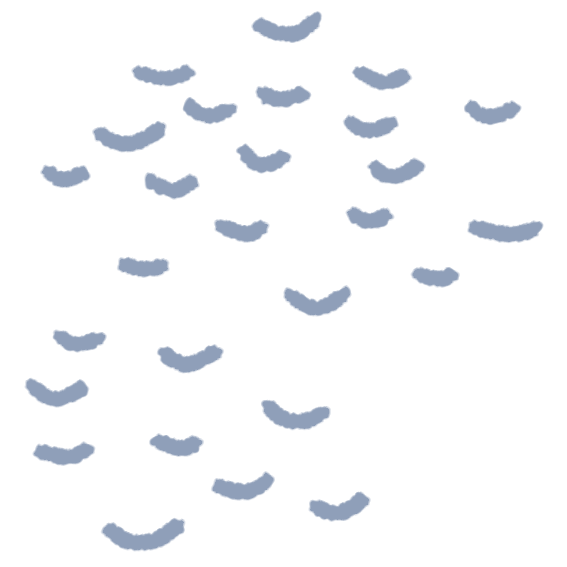
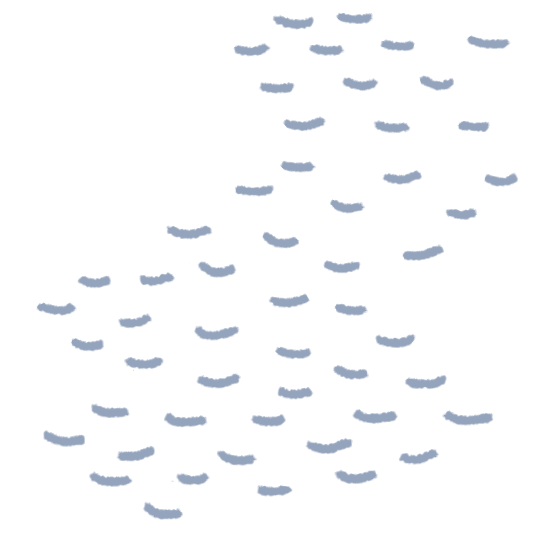
nami2修正

diff --git a/stylesheet.css b/stylesheet.css
@@ -72,6 +72,7 @@ a:link,a:visited,a:hover,a:active {
 
 .wrapper {
   width:100%;
+  overflow: hidden;
   max-width: 1200px;
   padding: 0 4%;
   margin: 0 auto;
@@ -107,7 +108,7 @@ a:link,a:visited,a:hover,a:active {
 .slide {
   position: relative;
   width: 100%;
-  height: 40vh;
+  height: 75vh;
   overflow: hidden;
 }
   
@@ -124,8 +125,7 @@ a:link,a:visited,a:hover,a:active {
   top: 50%;
   left: 50%;
   transform: translate(-50%, -50%);
-  width: 100%;
-  height: 40vh;
+  height: 100%;
   object-fit: cover;
   opacity: 0;
   animation: slideshow 32s infinite;
@@ -149,8 +149,8 @@ a:link,a:visited,a:hover,a:active {
   font-size: 3.5rem;
   font-weight: bold;
   line-height: 1.7;
-  top: 18vh;
-  left: calc(50vw - 240px);
+  top: 35vh;
+  left: calc(50vw - 230px);
   color: #f5f5f5;
   opacity: 80%;
   text-shadow: 0 0 1rem #28527a ;
@@ -188,7 +188,7 @@ a:link,a:visited,a:hover,a:active {
   top: 0;
   left: 0;
   object-fit: cover;
-  margin-top: calc(40vh - 3%); 
+  margin-top: calc(75vh - 3%); 
 }
 
 @media only screen and (max-width:800px) {
@@ -346,18 +346,22 @@ a:link,a:visited,a:hover,a:active {
 }
 
 .bubble1 {
-  width: 9%;
+  width: 25vw;
+  opacity: 30%;
+  padding-right: calc(50vw - 50%);
   position: absolute;
-  top: -20%;
-  left: 95%;
+  top: 100rem;
+  right: -6vw;
   z-index: -1;
 }
 
 .bubble2 {
-  width: 20%;
+  width: 30vw;
+  opacity: 30%;
+  padding-left: calc(50vw - 50%);
   position: absolute;
-  top: -50%;
-  left: -100%;
+  top: 150rem;
+  left: -6vw;
   z-index: -1;
 }
 
@@ -768,8 +772,8 @@ footer .mask2 {
 
   .la-water, .la-times{
     position: fixed;
-    top: 13px;
-    right: 13px;
+    top: 5vw;
+    right: 10vw;
     height: 45px;
     width:45px;
     display: inline-block;
@@ -870,11 +874,8 @@ footer .mask2 {
   }
 
   .bubble1 {
-    width: 20%;
-    position: absolute;
-    top: -9rem;
-    left: 85vw;
-    z-index: -1;
+    width: 37vw;
+    top: 150vw;
   }
 
   .bubble2 {
@@ -909,9 +910,9 @@ footer .mask2 {
     margin-bottom: 4rem; 
   }
 
-.pickup_main img {
-  margin-bottom: 4rem;
-}
+  .pickup_main img {
+    margin-bottom: 4rem;
+  }
 
   .pickup_dolphin_pic,.pickup_jellyfish_pic {
     width: 70vw;

diff --git a/index.html b/index.html
@@ -70,7 +70,6 @@
         </div>
         <!--ここまでメニュー-->
       </div>
-      <img class="copy" src="" alt=""></a>
     </div>
     <img class="mask" src="img/mask.png">
     <div class="nav wrapper">
@@ -92,7 +91,6 @@
       <div class="pickup_main fade-block" >
         <img src="img/main.png" alt="見どころ1">
         <img class="star1" src="img/star_1.png" alt="">
-        <img class="bubble1" src="img/nami1.png" alt="">
         <h3 class="title">全国でも珍しい<span> 昼 </span>と<span> 夜 </span>の<br class="ib">２部制の水族館です！
         </h3>
         <p class="main_txt">昼間のデイツアーは大水槽を優雅に泳ぐ姿や、イルカショー、癒しのクラゲドームを、
@@ -100,12 +98,13 @@
           <br>飼育員たちのお世話の様子など、水族館の裏側をご覧いただけます！
         </p>
       </div>
+      <img class="bubble1" src="img/nami1.png" alt="">
+      <img class="bubble2" src="img/nami2.png" alt="">
 
       <div class="pickup_dolphin fade-block">
         <div class="pickup_dolphin_pic">
           <img class="dolphin_pic" src="img/dolphin.png" alt="見どころ2">
           <img  class="star2" src="img/star_2.png" alt="">
-          <img class="bubble2" src="img/bubble2.png" alt="">
           <img class="splush" src="img/splush.png" alt="">
         </div>
         <div>
